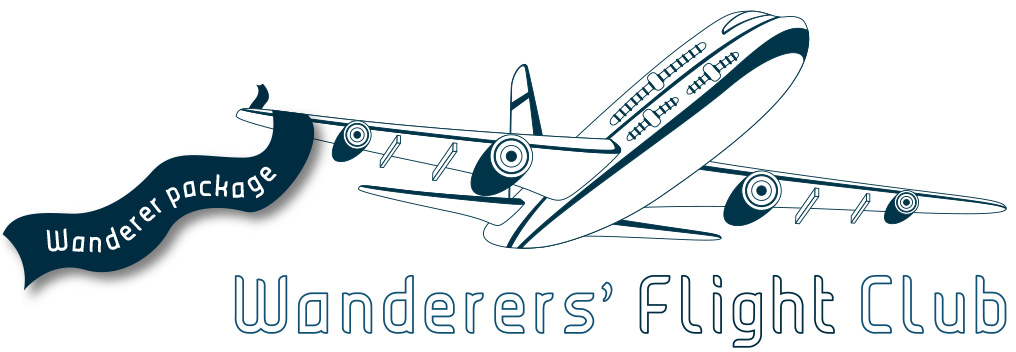
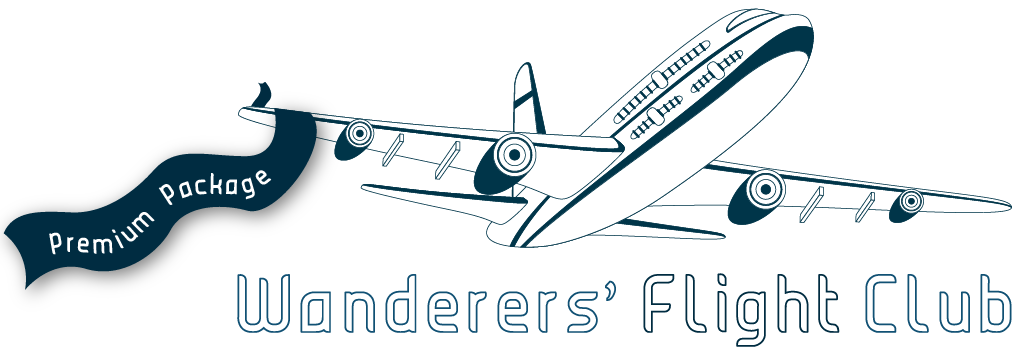
Updated Premium wording

diff --git a/app/web/modules/custom/wfc_stripe/src/Controller/WfcStripeController.php b/app/web/modules/custom/wfc_stripe/src/Controller/WfcStripeController.php
@@ -191,7 +191,7 @@ class WfcStripeController extends ControllerBase
         case 'pfail':
           $markup .= '<h4>Payment failed.</h4>';
           $markup .= '<p>Please go back and try again or contact us at <a class="info" href="mailto:info@wanderersflightclub.com">info@wanderersflightclub.com</a>.</p>';
-          $markup .= '<p class="back-link"><a href="/wanderer">Back to Wanderer package page</a></p>';
+          $markup .= '<p class="back-link"><a href="/premium">Back to the Premium page</a></p>';
           break;
         case 'efail':
           $markup .= '<h4>Payment successful</h4><h4>Welcome to the club!</h4>';
